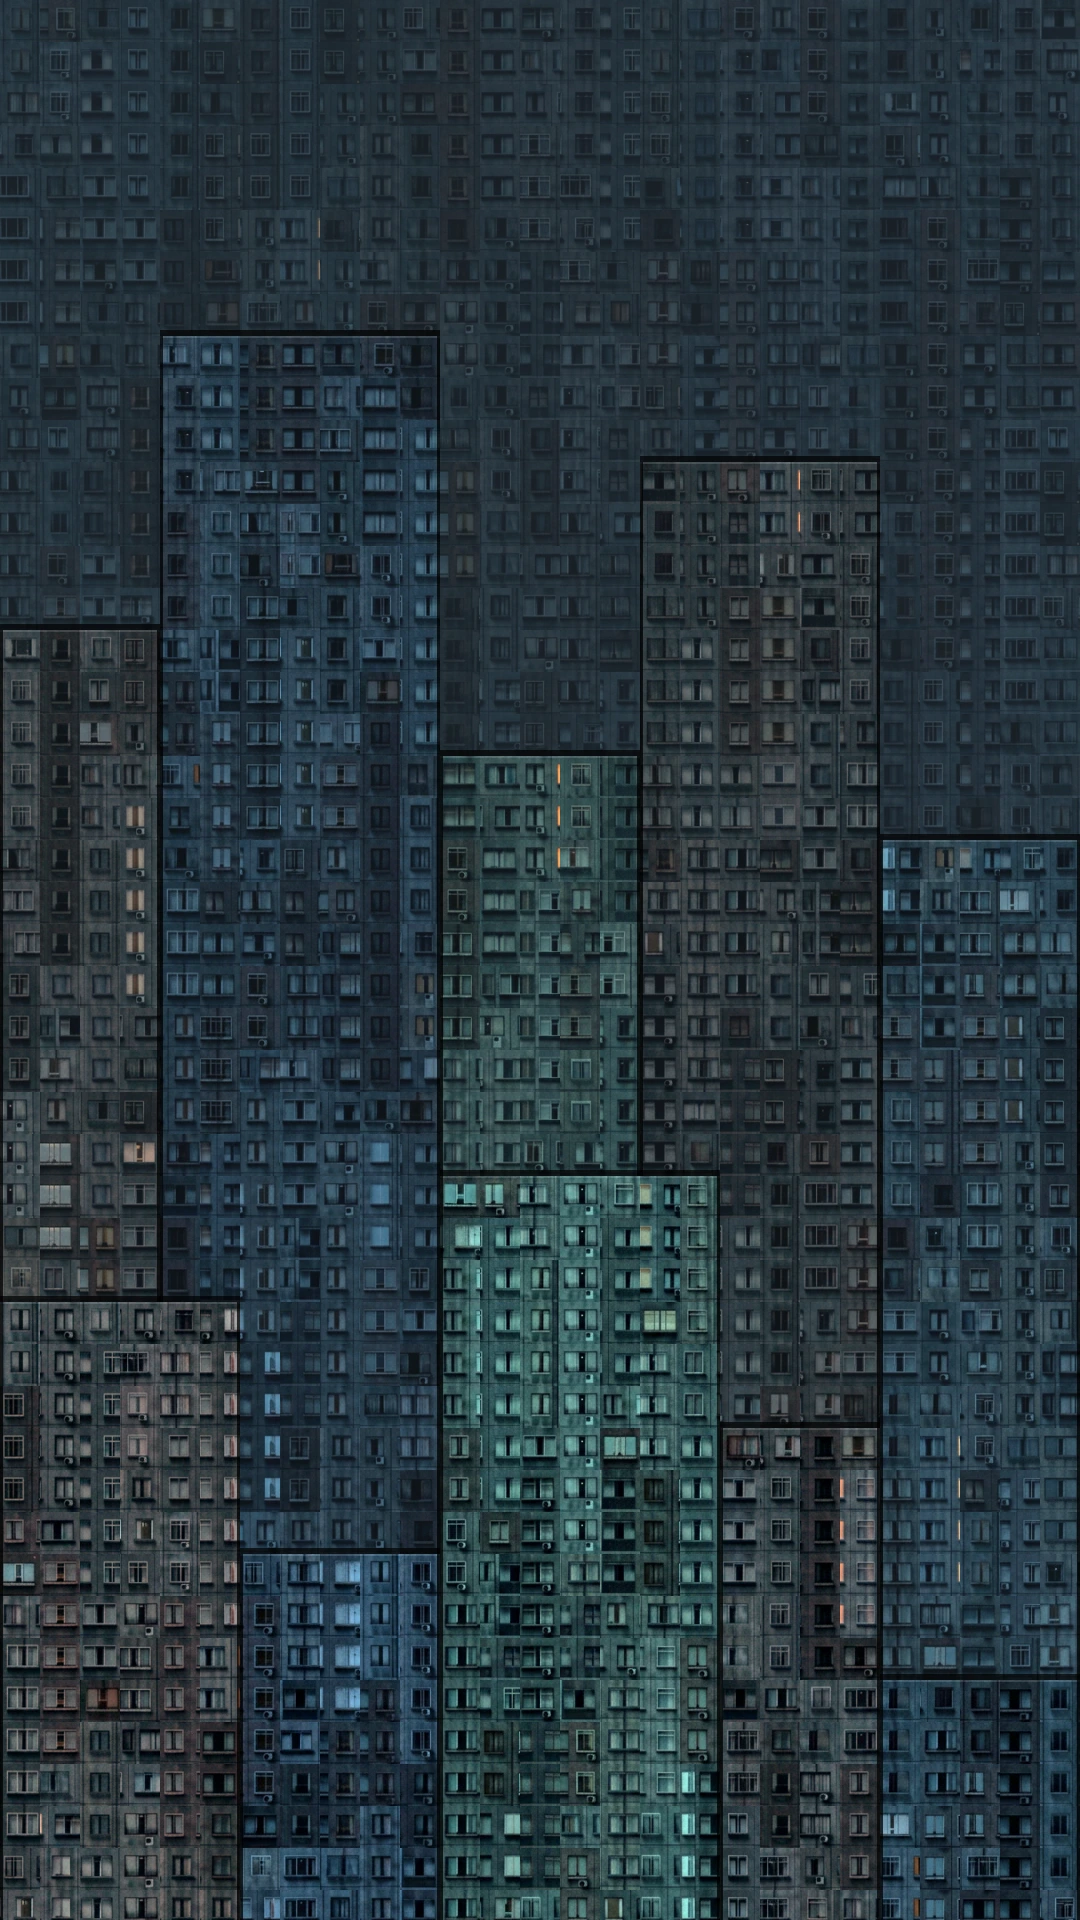
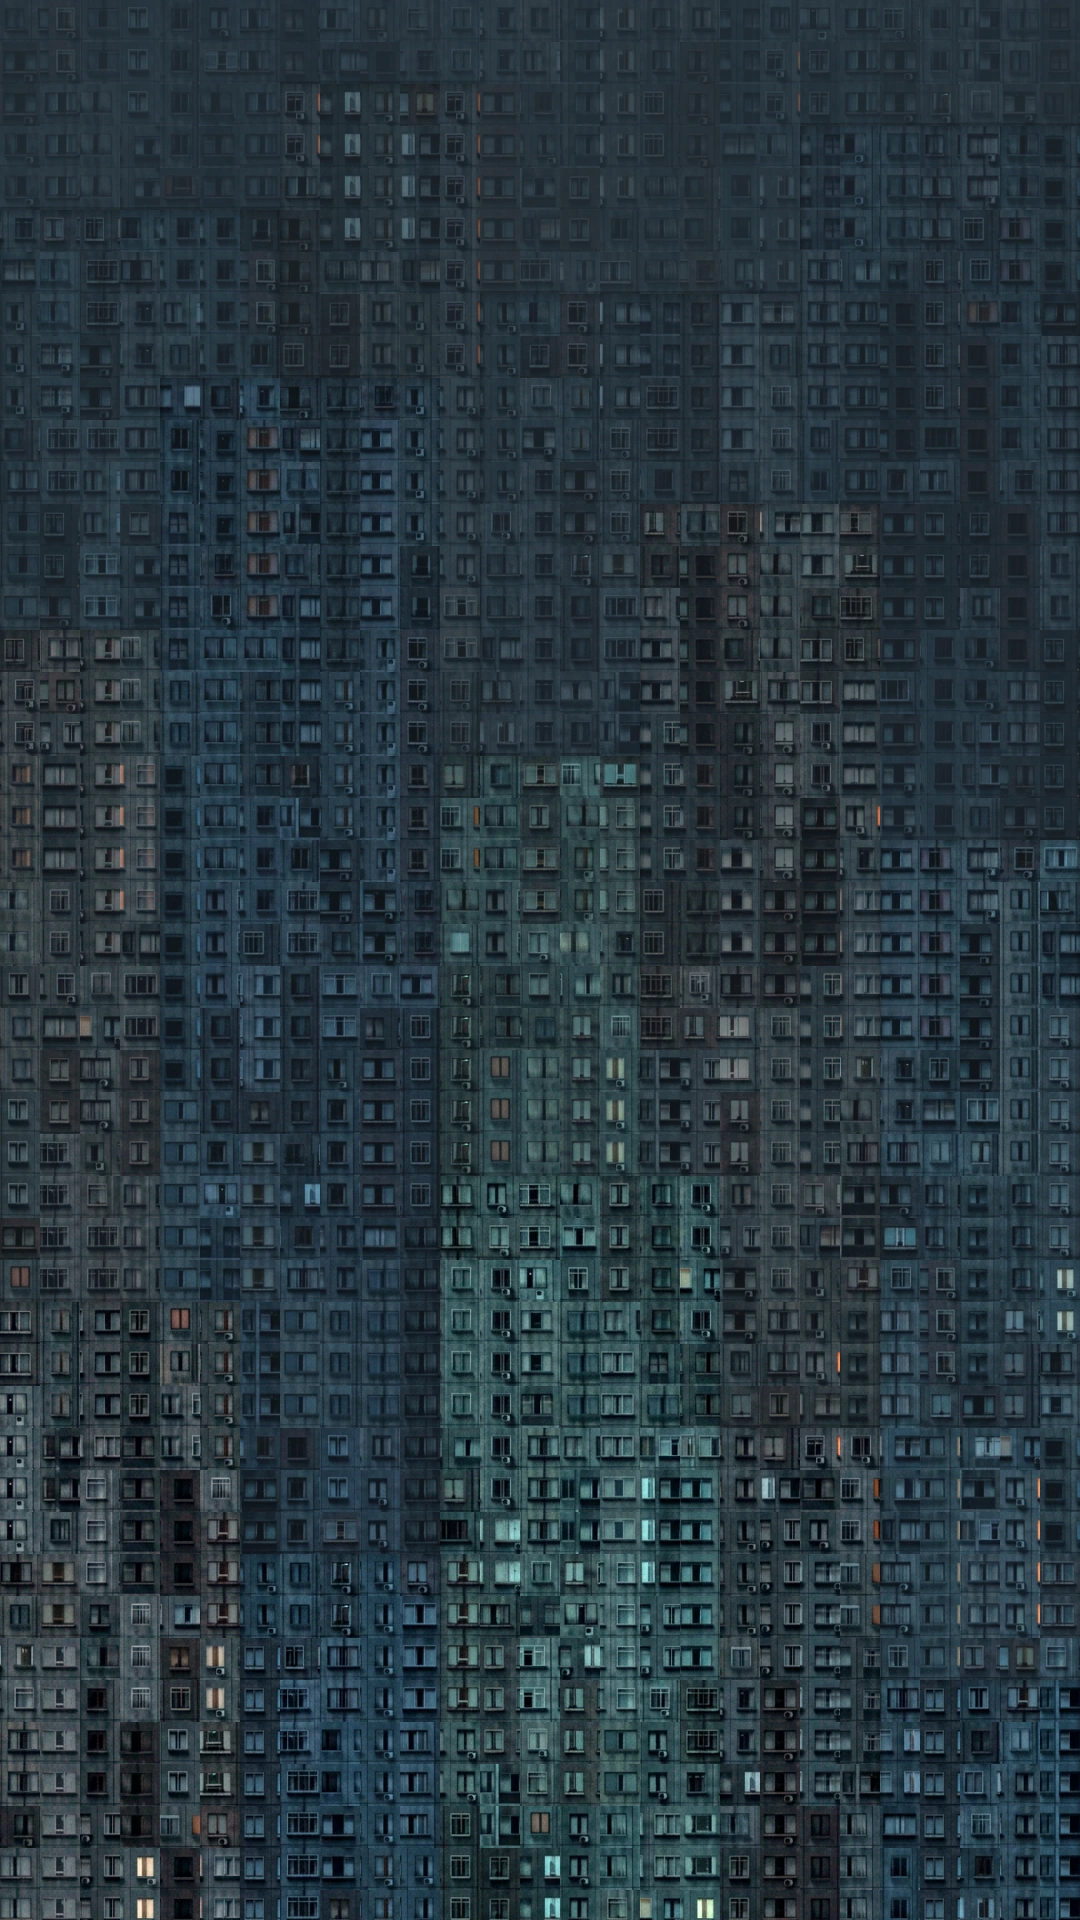
v2.56: four-layer city without black outlines, ambient background lights

diff --git a/windows.js b/windows.js
@@ -19,6 +19,10 @@ const SLIDERS = [
   { head: 'Person' },
   { id: 'wbgf', label: 'Fade the background (depth)', min: 0, max: 1, step: 0.01, val: 0.85, off: 'whole picture' },
   { id: 'wfg', label: 'Person edge (depth)', min: 0.1, max: 0.9, step: 0.01, val: 0.5, off: '0.5' },
+  { head: 'Ambient lights (the background windows)' },
+  { id: 'wamb', label: 'Windows lit in the background %', min: 0, max: 40, step: 0.5, val: 9, off: 'none' },
+  { id: 'wamv', label: 'Ambient brightness', min: 0, max: 1, step: 0.01, val: 0.35, off: 'none' },
+  { id: 'wams', label: 'Ambient change speed', min: 0, max: 3, step: 0.01, val: 0.6, off: 'frozen' },
   { head: 'Look' },
   { id: 'wpal', label: 'Light colours from the palette (1 = on)', min: 0, max: 1, step: 1, val: 1, off: 'built-in yellow and cool white' },
   { id: 'wwarm', label: 'Warm / cool mix', min: 0, max: 1, step: 0.01, val: 0.9, off: 'all cool white' },
@@ -168,6 +172,7 @@ function uploadLevels() {
   const N = WINS.length + 1, wdt = 256, hgt = Math.ceil(N / wdt) || 1, u8 = new Uint8Array(wdt * hgt);
   const auto = num('wauto', 1), blk = auto * lo + (1 - auto) * num('wblk', 0.05), wht = auto * hi + (1 - auto) * num('wwht', 0.8), gam = num('wgam', 1.15), str = num('wstr', 1), vr = num('wvar', 0.12);
   const bgf = hasDepth() ? num('wbgf', 0.85) : 0, inv = num('winv', 0) >= 0.5; nLit = 0;
+  const amb = num('wamb', 9) / 100, ambV = num('wamv', 0.35), ams = num('wams', 0.6), tt = performance.now() / 1000;
   for (let k = 0; k < WINS.length; k++) {
     const [x, y, w, h] = WINS[k], id = k + 1; let s = 0, sf = 0, c = 0;
     for (let j = 0; j < 3; j++) for (let i = 0; i < 3; i++) {                                           // 3 x 3 samples over the window's own area
@@ -178,6 +183,15 @@ function uploadLevels() {
     let I = Math.pow(Math.min(1, Math.max(0, (v - blk) / Math.max(0.05, wht - blk))), gam);
     I *= 1 - bgf * (1 - sf / c);
     I *= str * (1 + (hash(id) - 0.5) * 2 * vr);
+    if (amb > 0) {                                                    // the background windows are lights of their own: some come on and go off slowly, a few flicker like a screen; farther buildings are dimmer
+      const ly = WINS[k][4] === undefined ? 3 : WINS[k][4];
+      if (hash(id + 11) < amb) {
+        const ph = hash(id + 13) * 6.2832, sp = (0.3 + hash(id + 17)) * ams, v = Math.sin(tt * sp * 0.6 + ph), on = Math.min(1, Math.max(0, (v + 0.1) / 0.45));
+        let la = ambV * on * on * (3 - 2 * on) * [0.35, 0.55, 0.8, 1.0][ly] * (0.6 + 0.4 * hash(id + 19));
+        if (hash(id + 23) < 0.3) la *= 0.72 + 0.28 * Math.sin(tt * 7 + ph * 3);
+        I = Math.max(I, la);
+      }
+    }
     I = Math.min(1.5, Math.max(0, I)); if (I > 0.15) nLit++;
     u8[id] = Math.round(I / 1.5 * 255);
   }
@@ -202,7 +216,7 @@ function lightColours() {
 }
 function render() {
   if (!ready || !tone) return;
-  if (litUp) uploadLevels();
+  if (litUp || (num('wamb', 9) > 0 && num('wams', 0.6) > 0)) uploadLevels();
   gl.useProgram(pr);
   { const [a, b, c] = lightColours(); gl.uniform3fv(U.yelA, a); gl.uniform3fv(U.yelB, b); gl.uniform3fv(U.coolC, c); }
   gl.uniform1f(U.warm, num('wwarm', 0.9)); gl.uniform1f(U.glow, num('wgl', 0.9)); gl.uniform1f(U.spread, num('wgs', 0.5)); gl.uniform1f(U.dim, num('wdim', 1.15));

diff --git a/index.html b/index.html
@@ -4,9 +4,9 @@
 <meta charset="utf-8">
 <meta name="viewport" content="width=device-width, initial-scale=1">
 <title>Generative Art v002</title>
-<meta name="build" content="20261107040000">
-<script type="importmap">{"imports":{"three":"https://cdn.jsdelivr.net/npm/three@0.160.0/build/three.module.js","three/addons/":"https://cdn.jsdelivr.net/npm/three@0.160.0/examples/jsm/","./ui.js":"./ui.js?b=20261107040000","./palette.js":"./palette.js?b=20261107040000","./colorwheel.js":"./colorwheel.js?b=20261107040000","./depthmodel.js":"./depthmodel.js?b=20261107040000"}}</script>
-<link rel="stylesheet" href="css/main.css?b=20261107040000">
+<meta name="build" content="20261107060000">
+<script type="importmap">{"imports":{"three":"https://cdn.jsdelivr.net/npm/three@0.160.0/build/three.module.js","three/addons/":"https://cdn.jsdelivr.net/npm/three@0.160.0/examples/jsm/","./ui.js":"./ui.js?b=20261107060000","./palette.js":"./palette.js?b=20261107060000","./colorwheel.js":"./colorwheel.js?b=20261107060000","./depthmodel.js":"./depthmodel.js?b=20261107060000"}}</script>
+<link rel="stylesheet" href="css/main.css?b=20261107060000">
 </head>
 <body>
 <div id="app">
@@ -20,7 +20,7 @@
     <div class="row"><span class="row" id="versions"></span><button id="nodebtn" type="button" data-views="dollar5,linesv2">Nodes</button><button id="setbtn" type="button">Edit</button><button id="recbtn" type="button" title="Record the picture as it plays, in real time, and save the video">Record</button></div>
     <div id="msg"></div>
     <div id="pinbox" class="pinbox" hidden><input type="password" inputmode="numeric" maxlength="4" autocomplete="off" placeholder="PIN"></div>
-    <div class="note" id="ver">Generative Art v002 · v2.55 (2026-11-07)</div>
+    <div class="note" id="ver">Generative Art v002 · v2.56 (2026-11-07)</div>
   </div>
 </div>
 

diff --git a/README.md b/README.md
@@ -173,3 +173,8 @@ Setting `Live strokes` to 1 now also raises the Overlay Strength to 1 if it was 
 
 - The Windows picture is no longer one generated photograph: it is composed from window sprites cut out of `Ref/Firefly_ night photograph_windows.png` (425 windows with their piece of wall, the lit ones left out). They are pasted onto one exact grid (27 columns by 46 rows, 1,215 windows) as 15 buildings in three layers, as if a 300mm lens had stacked a few buildings into one flat wall: a hazy back layer at full height, a middle layer and a front layer with their roofs at different rows and a dark parapet at each roof edge. Each building has its own tint, brightness and mix of window types, and windows repeat down a column like in a real building. Every window sits on the grid, so the lights of the person line up with them. The compose script is local (`camera-motion/win/compose.py`); a different seed gives a different city.
 - Fix: Letters and Windows apply their palette preset on every open (it was applied only on the first visit, and the palette itself is not kept between visits, so later visits fell back to the classic palette). A palette saved with Save as default still wins.
+
+## Softer city, buildings all the way back, ambient lights (v2.56)
+
+- The composed city has four layers (far, back, middle, front; 20 buildings), every layer filling what the nearer ones leave open, so there is no sky anywhere, only more buildings behind. The black parapet and side lines are gone: a roof edge is now a soft shade a few pixels deep, a building side a faint darkening. Each window now carries its layer in `win.json` (`[x, y, w, h, layer]`, 0 = far .. 3 = front).
+- The background windows are lights too, like the person's: some come on and go off slowly, a few flicker like a screen, and farther buildings are dimmer. Settings: Windows lit in the background %, Ambient brightness, Ambient change speed (0 = frozen). They use the same colours (palette) and glow as the person's lights.
